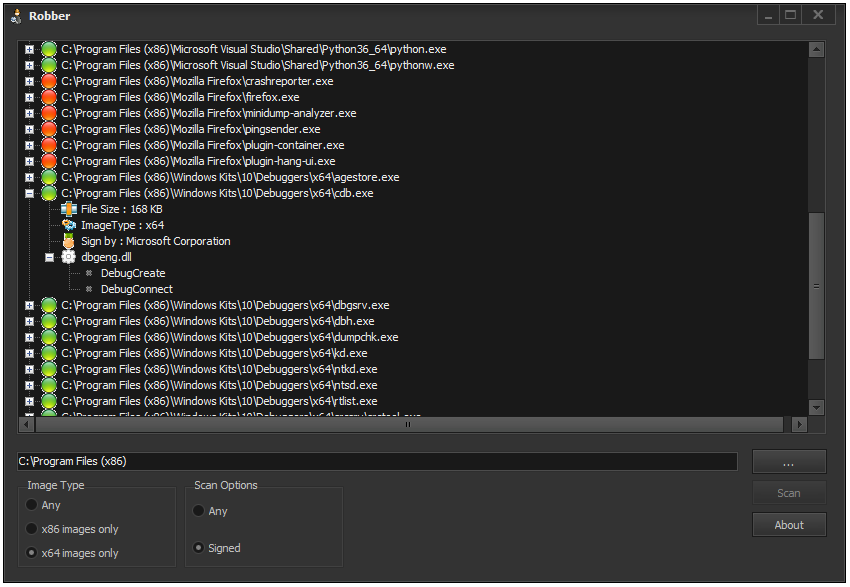
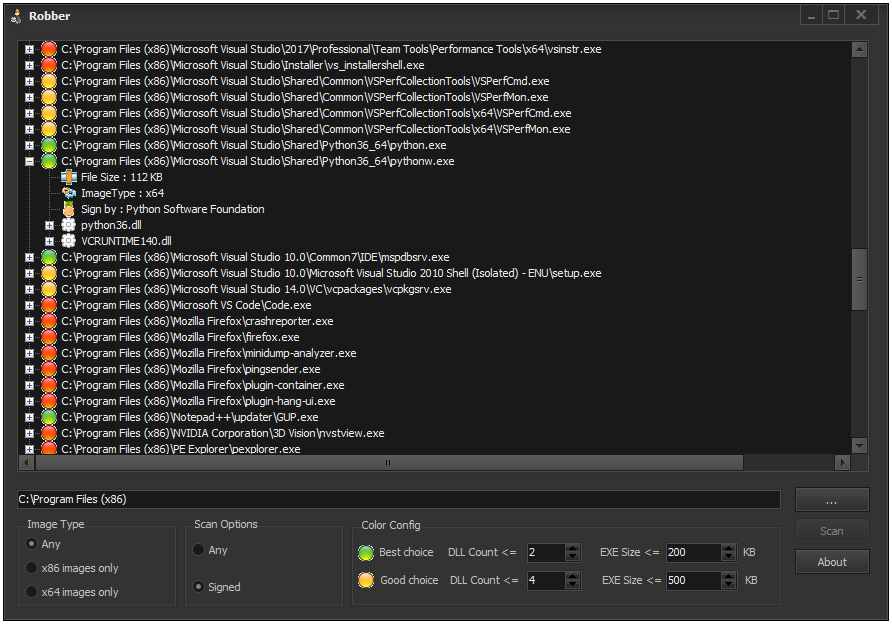
Introduce version1.3

Changed region(s): [[0.0, 0.0, 1.0, 1.0], [0.6729, 0.8586, 0.8565, 0.9506], [0.2141, 0.9199, 0.2753, 0.9506]]

diff --git a/README.md b/README.md
@@ -39,7 +39,7 @@ Feauters :
 - Determine executable signer
 - Determine wich referenced DLLs candidate for hijacking
 - Determine exported method names of candidate DLLs
-- Detrmine wich hijacks is suitable for use (executable Size, Signed, number of dependent DLLs) and show theme in diffrent color
+- Configure rules to determine which hijacks is best or good choice for use and show theme in different colors
 
 [Find out latest Robber executable here](https://github.com/MojtabaTajik/Robber/releases)
 
